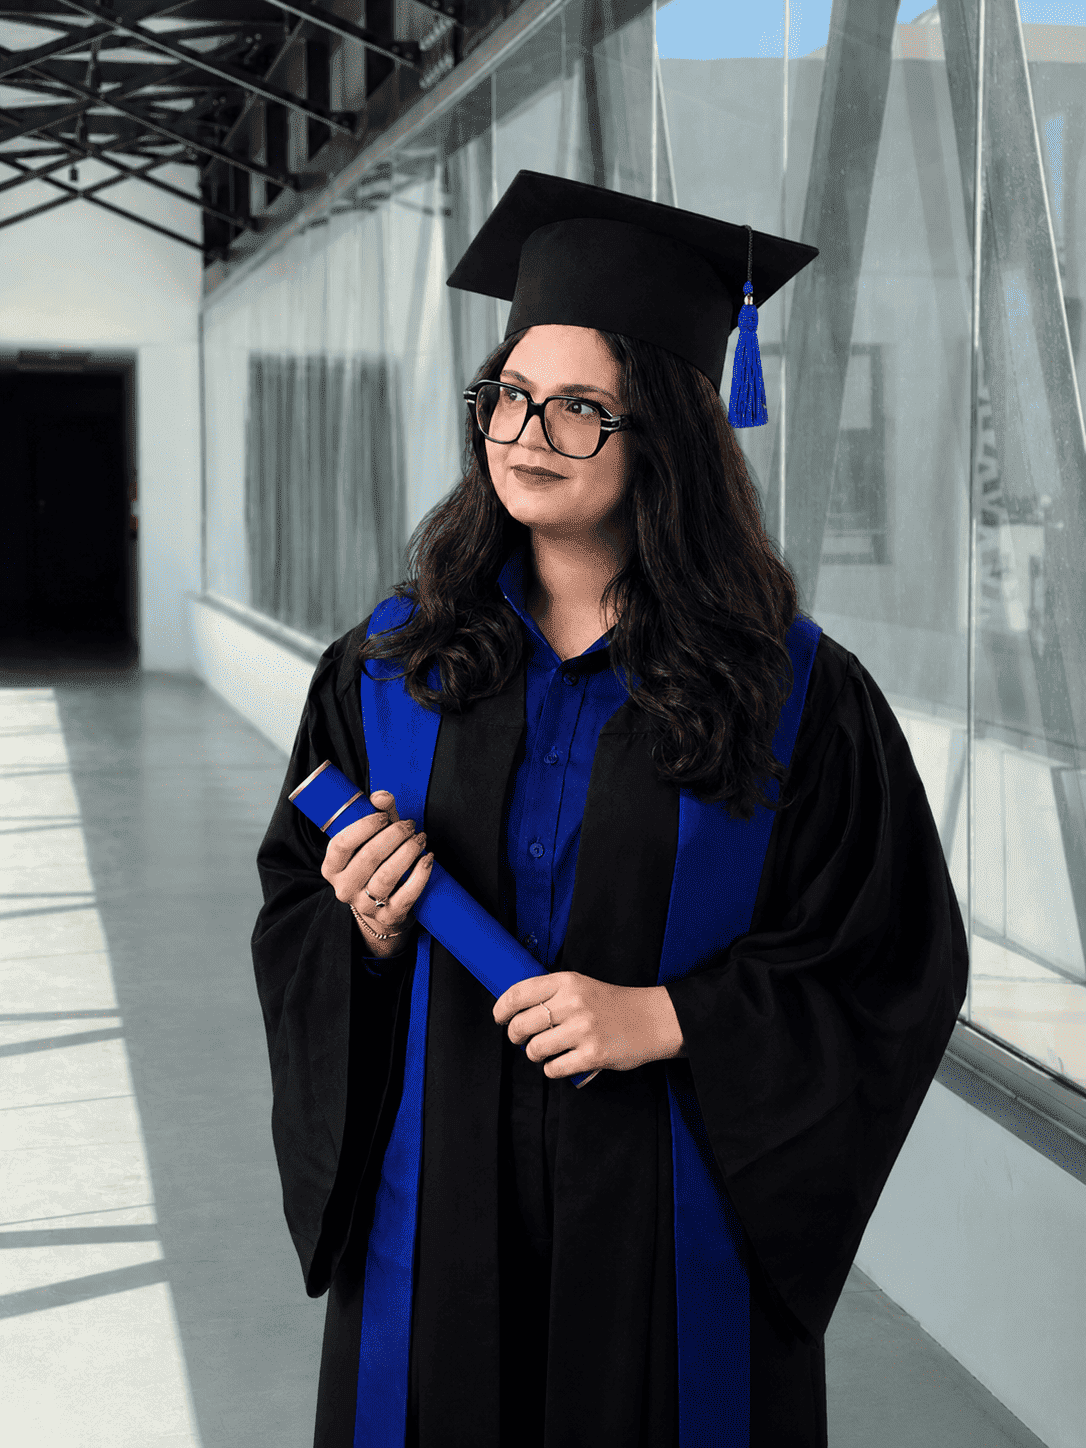
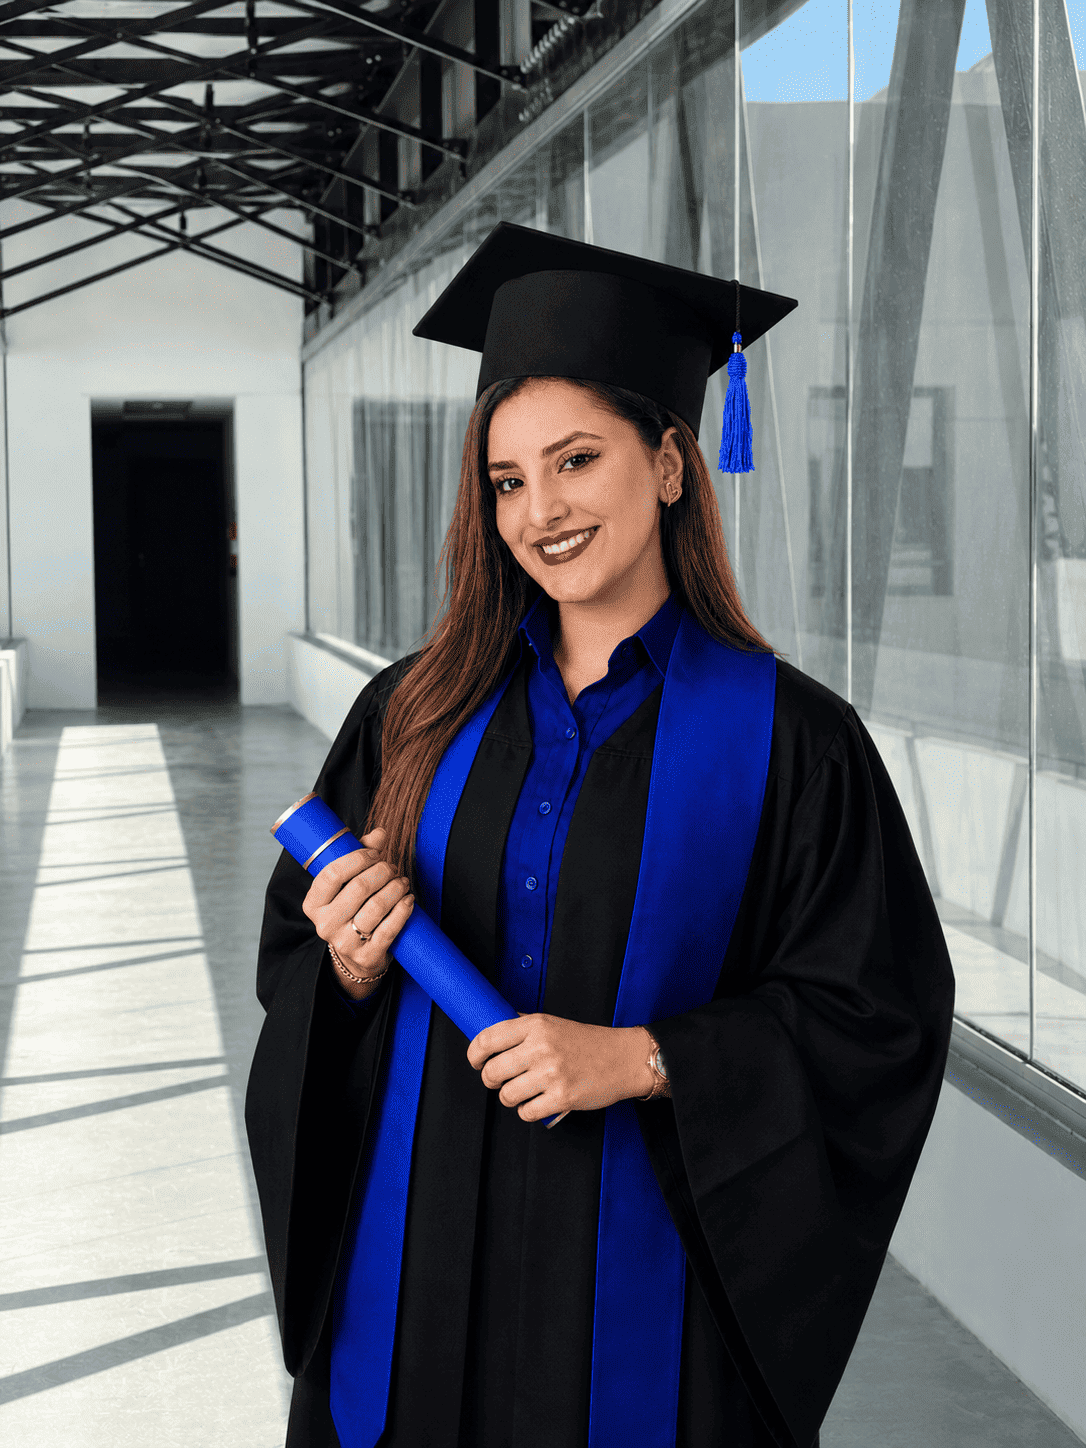
Update event information to Wiem Zouaoui

diff --git a/src/components/HeroInvitation.tsx b/src/components/HeroInvitation.tsx
@@ -22,13 +22,13 @@ export const HeroInvitation = ({ onExploreMemories }: HeroInvitationProps) => (
         </p>
 
         <h1 className="mt-4 max-w-3xl font-display text-4xl leading-tight text-navy-900 sm:text-5xl lg:text-6xl">
-          Projet de fin d&apos;études de Fatma Fehri
+          Projet de fin d&apos;études de Wiem Zouaoui
         </h1>
 
         <p className="mt-4 max-w-2xl text-sm leading-relaxed text-slate-600 sm:text-base">
-          Votre présence nous honorera lors de cette étape académique
-          importante. Merci de célébrer ce moment avec nous et de partager vos
-          souvenirs dans la galerie collective.
+          Vous êtes invité à la soutenance de Wiem Zouaoui à International
+          School of Business. Merci de célébrer ce moment avec nous et de
+          partager vos souvenirs dans la galerie collective.
         </p>
 
         <div className="mt-6 grid gap-3 sm:grid-cols-3">
@@ -38,7 +38,7 @@ export const HeroInvitation = ({ onExploreMemories }: HeroInvitationProps) => (
               Date
             </p>
             <p className="mt-1 text-sm font-semibold text-navy-900">
-              04/06/2026
+              05-06-2026
             </p>
           </div>
           <div className="rounded-2xl border border-slate-200 bg-mist-50/85 p-4">
@@ -47,7 +47,7 @@ export const HeroInvitation = ({ onExploreMemories }: HeroInvitationProps) => (
               Horaire
             </p>
             <p className="mt-1 text-sm font-semibold text-navy-900">
-              15:30
+              14:00
             </p>
           </div>
           <div className="rounded-2xl border border-slate-200 bg-mist-50/85 p-4">

diff --git a/src/components/DetailsSection.tsx b/src/components/DetailsSection.tsx
@@ -5,13 +5,13 @@ const cards = [
   {
     icon: CalendarDays,
     label: 'Date',
-    value: '04/06/2026',
+    value: '05-06-2026',
     accent: 'from-gold-500/16 to-white',
   },
   {
     icon: Clock3,
     label: 'Heure',
-    value: '15:30',
+    value: '14:00',
     accent: 'from-navy-900/10 to-white',
   },
   {

diff --git a/src/components/HeroSection.tsx b/src/components/HeroSection.tsx
@@ -45,7 +45,7 @@ export const HeroSection = ({
             </h1>
 
             <p className="mx-auto mt-4 max-w-full text-center font-script text-[clamp(2.2rem,10.4vw,4.2rem)] leading-[1] text-gold-600">
-              Fatma Fehri
+              Wiem Zouaoui
             </p>
 
             <p className="mx-auto mt-4 inline-flex max-w-full items-center justify-center rounded-full border border-gold-500/35 bg-white/80 px-3.5 py-2 text-center text-[0.7rem] font-semibold uppercase tracking-[0.1em] text-navy-900 sm:px-4 sm:tracking-[0.18em]">
@@ -86,7 +86,7 @@ export const HeroSection = ({
               <div className="overflow-hidden rounded-[1.5rem] border border-white/80 bg-white shadow-[inset_0_0_0_1px_rgba(255,255,255,0.7)]">
                 <img
                   src={posterImage}
-                  alt="Affiche officielle de la soutenance Fatma Fehri"
+                  alt="Affiche officielle de la soutenance Wiem Zouaoui"
                   className="aspect-[10/16] w-full object-contain bg-[#f8fafc]"
                   loading="eager"
                 />

diff --git a/src/components/Navbar.tsx b/src/components/Navbar.tsx
@@ -23,13 +23,13 @@ export const Navbar = ({ items, visitorName }: NavbarProps) => (
         <div className="flex items-center gap-3">
           <img
             src={profileImage}
-            alt="Soutenance Fatma Fehri"
+            alt="Soutenance Wiem Zouaoui"
             className="h-11 w-11 shrink-0 rounded-full border-2 border-gold-500/70 object-cover shadow-[0_8px_18px_rgba(16,40,70,0.16)]"
             loading="lazy"
           />
           <div className="min-w-0">
             <p className="truncate text-sm font-semibold text-navy-900 lg:text-[0.95rem]">
-              Soutenance Fatma Fehri
+              Soutenance Wiem Zouaoui
             </p>
             <p className="truncate text-xs text-slate-600">
               Bienvenue, {visitorName}

diff --git a/src/components/ProfileHeader.tsx b/src/components/ProfileHeader.tsx
@@ -12,14 +12,14 @@ export const ProfileHeader = ({ visitorName }: ProfileHeaderProps) => (
     <div className="flex items-center gap-3">
       <img
         src={profileImage}
-        alt="Soutenance Fatma Fehri"
+        alt="Soutenance Wiem Zouaoui"
         className="h-12 w-12 shrink-0 rounded-full border-2 border-gold-500/70 object-cover shadow-[0_8px_22px_rgba(16,40,70,0.18)]"
         loading="lazy"
       />
 
       <div className="min-w-0">
         <p className="truncate text-sm font-semibold text-navy-900">
-          Soutenance Fatma Fehri
+          Soutenance Wiem Zouaoui
         </p>
         <p className="truncate text-xs text-slate-600">
           Bienvenue, {visitorName}

diff --git a/index.html b/index.html
@@ -4,7 +4,7 @@
     <meta charset="UTF-8" />
     <link rel="icon" type="image/svg+xml" href="/favicon.svg" />
     <meta name="viewport" content="width=device-width, initial-scale=1.0" />
-    <title>Soutenance Fatma Fehri</title>
+    <title>Soutenance Wiem Zouaoui</title>
   </head>
   <body>
     <div id="root"></div>

diff --git a/src/components/DesktopTopNav.tsx b/src/components/DesktopTopNav.tsx
@@ -21,7 +21,7 @@ export const DesktopTopNav = ({
   <header className="sticky top-0 z-50 hidden border-b border-slate-200/90 bg-white/85 backdrop-blur md:block">
     <div className="mx-auto flex w-full max-w-6xl items-center justify-between px-6 py-4 lg:px-8">
       <p className="font-display text-[1.7rem] tracking-[0.24em] text-navy-900">
-        FATMA FEHRI
+        WIEM ZOUAOUI
       </p>
       <nav aria-label="Navigation principale">
         <ul className="flex items-center gap-2">

diff --git a/src/components/InvitationSection.tsx b/src/components/InvitationSection.tsx
@@ -28,7 +28,7 @@ export const InvitationSection = () => (
 
           <div className="mt-6 flex items-center justify-center gap-2 text-[0.72rem] font-semibold uppercase tracking-[0.18em] text-slate-500">
             <Trophy className="h-4 w-4 text-gold-600" />
-            Soutenance Fatma Fehri - International School of Business
+            Soutenance Wiem Zouaoui - International School of Business
           </div>
         </motion.div>
       </div>

diff --git a/src/components/VisitorGate.tsx b/src/components/VisitorGate.tsx
@@ -37,7 +37,7 @@ export const VisitorGate = ({ onSubmitName }: VisitorGateProps) => {
         className="w-[calc(100%-12px)] max-w-md rounded-[1.9rem] border border-slate-200/75 bg-white/96 p-5 shadow-[0_28px_70px_rgba(7,27,58,0.15)] sm:p-6"
       >
         <h1 className="font-display text-[clamp(1.7rem,7vw,2.4rem)] leading-tight text-navy-900">
-          Bienvenue à la soutenance de Fatma Fehri
+          Bienvenue à la soutenance de Wiem Zouaoui
         </h1>
 
         <form

diff --git a/src/pages/SouvenirsPage.tsx b/src/pages/SouvenirsPage.tsx
@@ -18,7 +18,7 @@ export const SouvenirsPage = ({ visitorName }: SouvenirsPageProps) => (
       </p>
 
       <p className="mt-3 text-xs font-semibold uppercase tracking-[0.2em] text-slate-500 sm:text-sm">
-        Soutenance Fatma Fehri - International School of Business
+        Soutenance Wiem Zouaoui - International School of Business
       </p>
     </section>
 

diff --git a/README.md b/README.md
@@ -1,13 +1,13 @@
-# Soutenance Fatma Fehri
+# Soutenance Wiem Zouaoui
 
-Premium soutenance invitation website for Fatma Fehri - International School of Business.
+Premium soutenance invitation website for Wiem Zouaoui - International School of Business.
 
 This project is a mobile-first, elegant, and responsive digital invitation built with Vite, React, and TypeScript.
 It includes a shared memories gallery where guests can upload photos to Cloudinary, while metadata is stored in Supabase so everyone sees the same gallery.
 
 ## 1. Project Description
 
-Premium soutenance invitation website for Fatma Fehri - International School of Business.
+Premium soutenance invitation website for Wiem Zouaoui - International School of Business.
 
 ## 2. Features
 